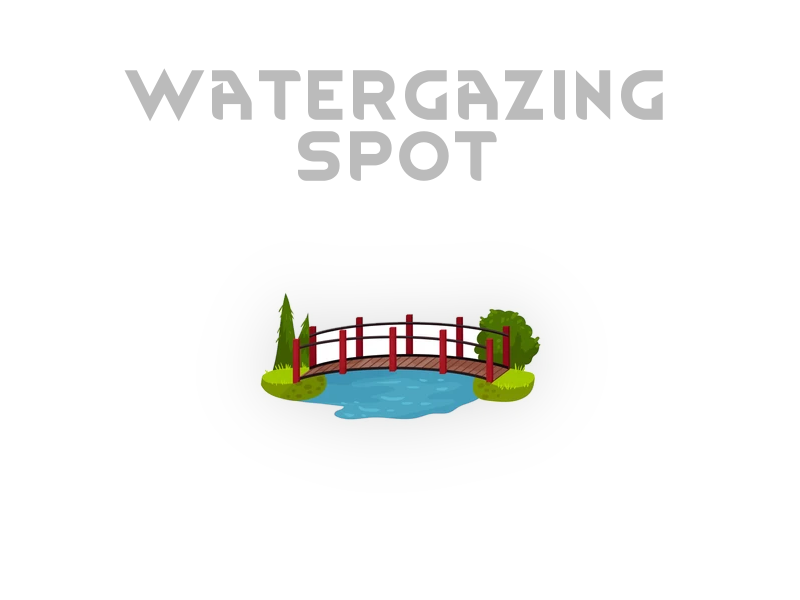
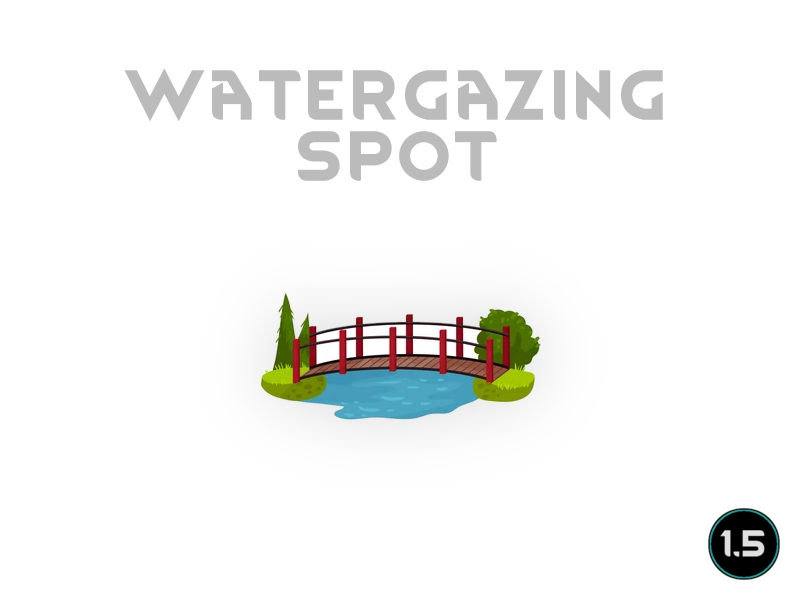
Mod updated for 1.5 and passed autotests

Changed region(s): [[0.875, 0.84, 1.0, 0.99]]

diff --git a/Source/WatergazingSpot/PlaceWorker_WatergazingSpot.cs b/Source/WatergazingSpot/PlaceWorker_WatergazingSpot.cs
@@ -1,5 +1,4 @@
-using System.Collections.Generic;
-using UnityEngine;
+using UnityEngine;
 using Verse;
 
 namespace WatergazingSpot;
@@ -8,7 +7,7 @@ public class PlaceWorker_WatergazingSpot : PlaceWorker
 {
     public override void DrawGhost(ThingDef def, IntVec3 center, Rot4 rot, Color ghostCol, Thing thing = null)
     {
-        GenDraw.DrawFieldEdges(new List<IntVec3> { center + IntVec3.South.RotatedBy(rot) });
+        GenDraw.DrawFieldEdges([center + IntVec3.South.RotatedBy(rot)]);
     }
 
     public override AcceptanceReport AllowsPlacing(BuildableDef checkingDef, IntVec3 loc, Rot4 rot, Map map,

diff --git a/README.md b/README.md
@@ -1,6 +1,6 @@
 # WatergazingSpot
 
-![Image](https://i.imgur.com/buuPQel.png)
+![Image](https://i.imgur.com/iCj5o7O.png)
 
 
 Adds Watergazing spot where pawns can stand and look at the water as a medative joy activity.
@@ -9,23 +9,27 @@ There is a version of this in the mod https://steamcommunity.com/sharedfiles/fil
 
 Made the placement a bit more intuitive, pawns can look at impassible watertypes and it should also never be attacked by raiders or wake up mechanoids.
 	
-![Image](https://i.imgur.com/O0IIlYj.png)
+![Image](https://i.imgur.com/Ds0rBAD.png)
 
 Since modding is just a hobby for me I expect no donations to keep modding. If you still want to show your support you can gift me anything from my https://store.steampowered.com/wishlist/id/Mlie]Wishlist or buy me a cup of tea.
 
-https://ko-fi.com/G2G55DDYD]![Image](https://i.imgur.com/Utx6OIH.png)
+https://ko-fi.com/G2G55DDYD]![Image](https://i.imgur.com/VWG0yff.png)
 
 
-![Image](https://i.imgur.com/PwoNOj4.png)
+![Image](https://i.imgur.com/5xwDG6H.png)
 
 
 
 -  See if the the error persists if you just have this mod and its requirements active.
 -  If not, try adding your other mods until it happens again.
--  Post your error-log using https://steamcommunity.com/workshop/filedetails/?id=818773962]HugsLib and command Ctrl+F12
+-  Post your error-log using https://steamcommunity.com/workshop/filedetails/?id=818773962]HugsLib or the standalone https://steamcommunity.com/sharedfiles/filedetails/?id=2873415404]Uploader and command Ctrl+F12
 -  For best support, please use the Discord-channel for error-reporting.
 -  Do not report errors by making a discussion-thread, I get no notification of that.
 -  If you have the solution for a problem, please post it to the GitHub repository.
+-  Use https://github.com/RimSort/RimSort/releases/latest]RimSort to sort your mods
 
 
 https://steamcommunity.com/sharedfiles/filedetails/changelog/2692669482]Last updated 2023-02-18
+
+https://steamcommunity.com/sharedfiles/filedetails/changelog/2935998359]![Image](https://img.shields.io/github/v/release/emipa606/WatergazingSpot?label=latest%20version&style=plastic&labelColor=0070cd&color=white)
+
